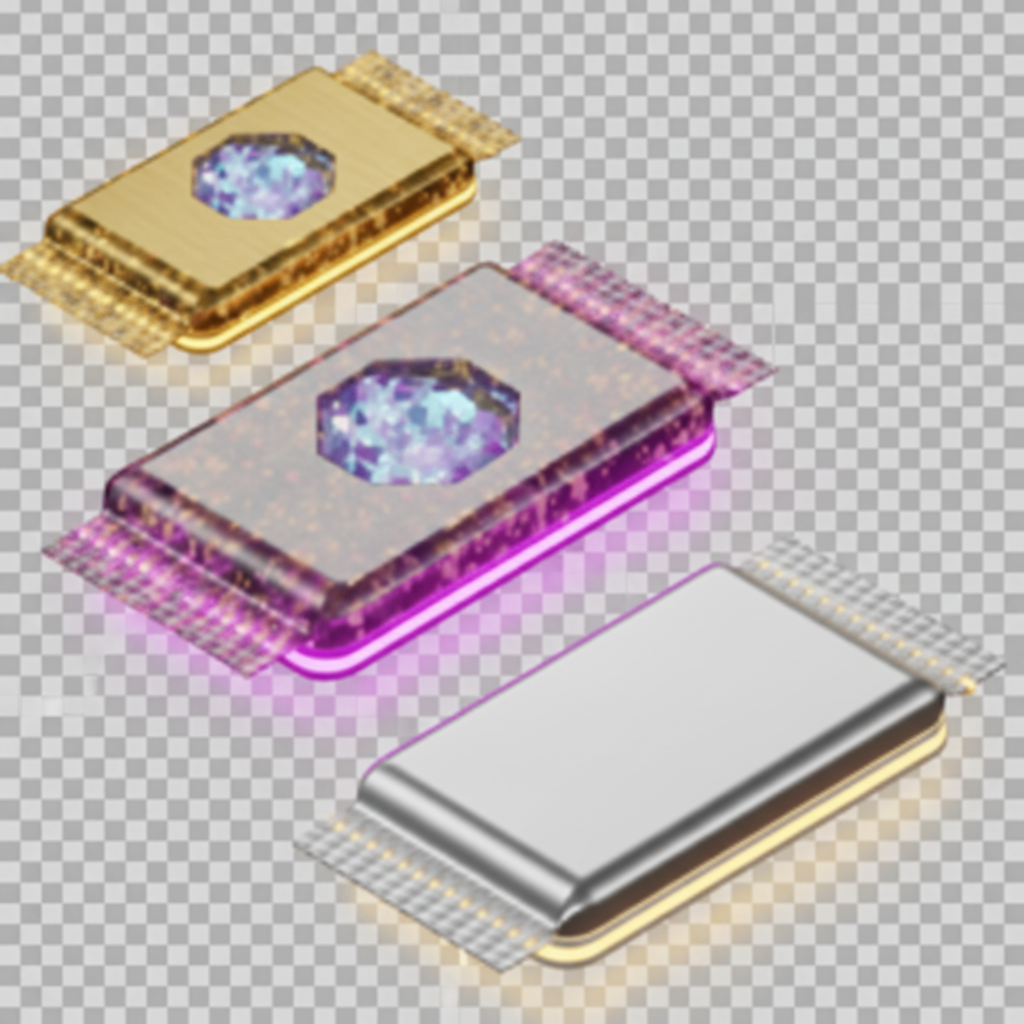
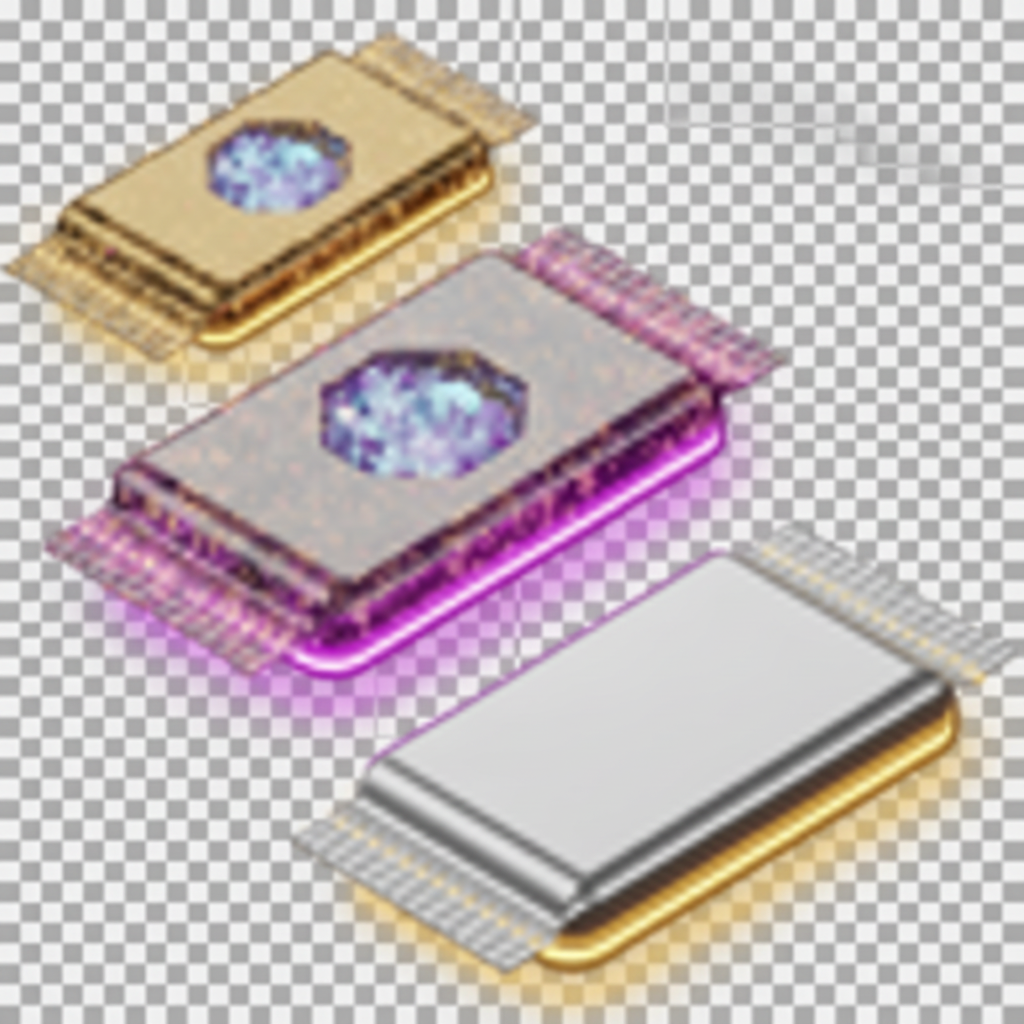
fix: adiciona drop-shadow nos ícones + novas imagens 100% transparentes

diff --git a/frontend/app/dashboard/page.tsx b/frontend/app/dashboard/page.tsx
@@ -221,11 +221,16 @@ function DashboardCard({ title, value, icon, href }: { title: string; value: str
       className="bg-black/40 backdrop-blur-md border-2 border-[#00F0FF]/30 rounded-lg p-6 hover:border-[#00F0FF]/60 transition cursor-pointer group"
     >
       {isImage ? (
-        <img 
-          src={icon} 
-          alt={title} 
-          className="w-16 h-16 mb-2 group-hover:scale-110 transition-transform object-contain"
-        />
+        <div className="w-16 h-16 mb-2 group-hover:scale-110 transition-transform relative">
+          <img 
+            src={icon} 
+            alt={title} 
+            className="w-full h-full object-contain absolute inset-0"
+            style={{ 
+              filter: 'drop-shadow(0 2px 8px rgba(0, 240, 255, 0.3))'
+            }}
+          />
+        </div>
       ) : (
         <div className="text-4xl mb-2 group-hover:scale-110 transition-transform">{icon}</div>
       )}
